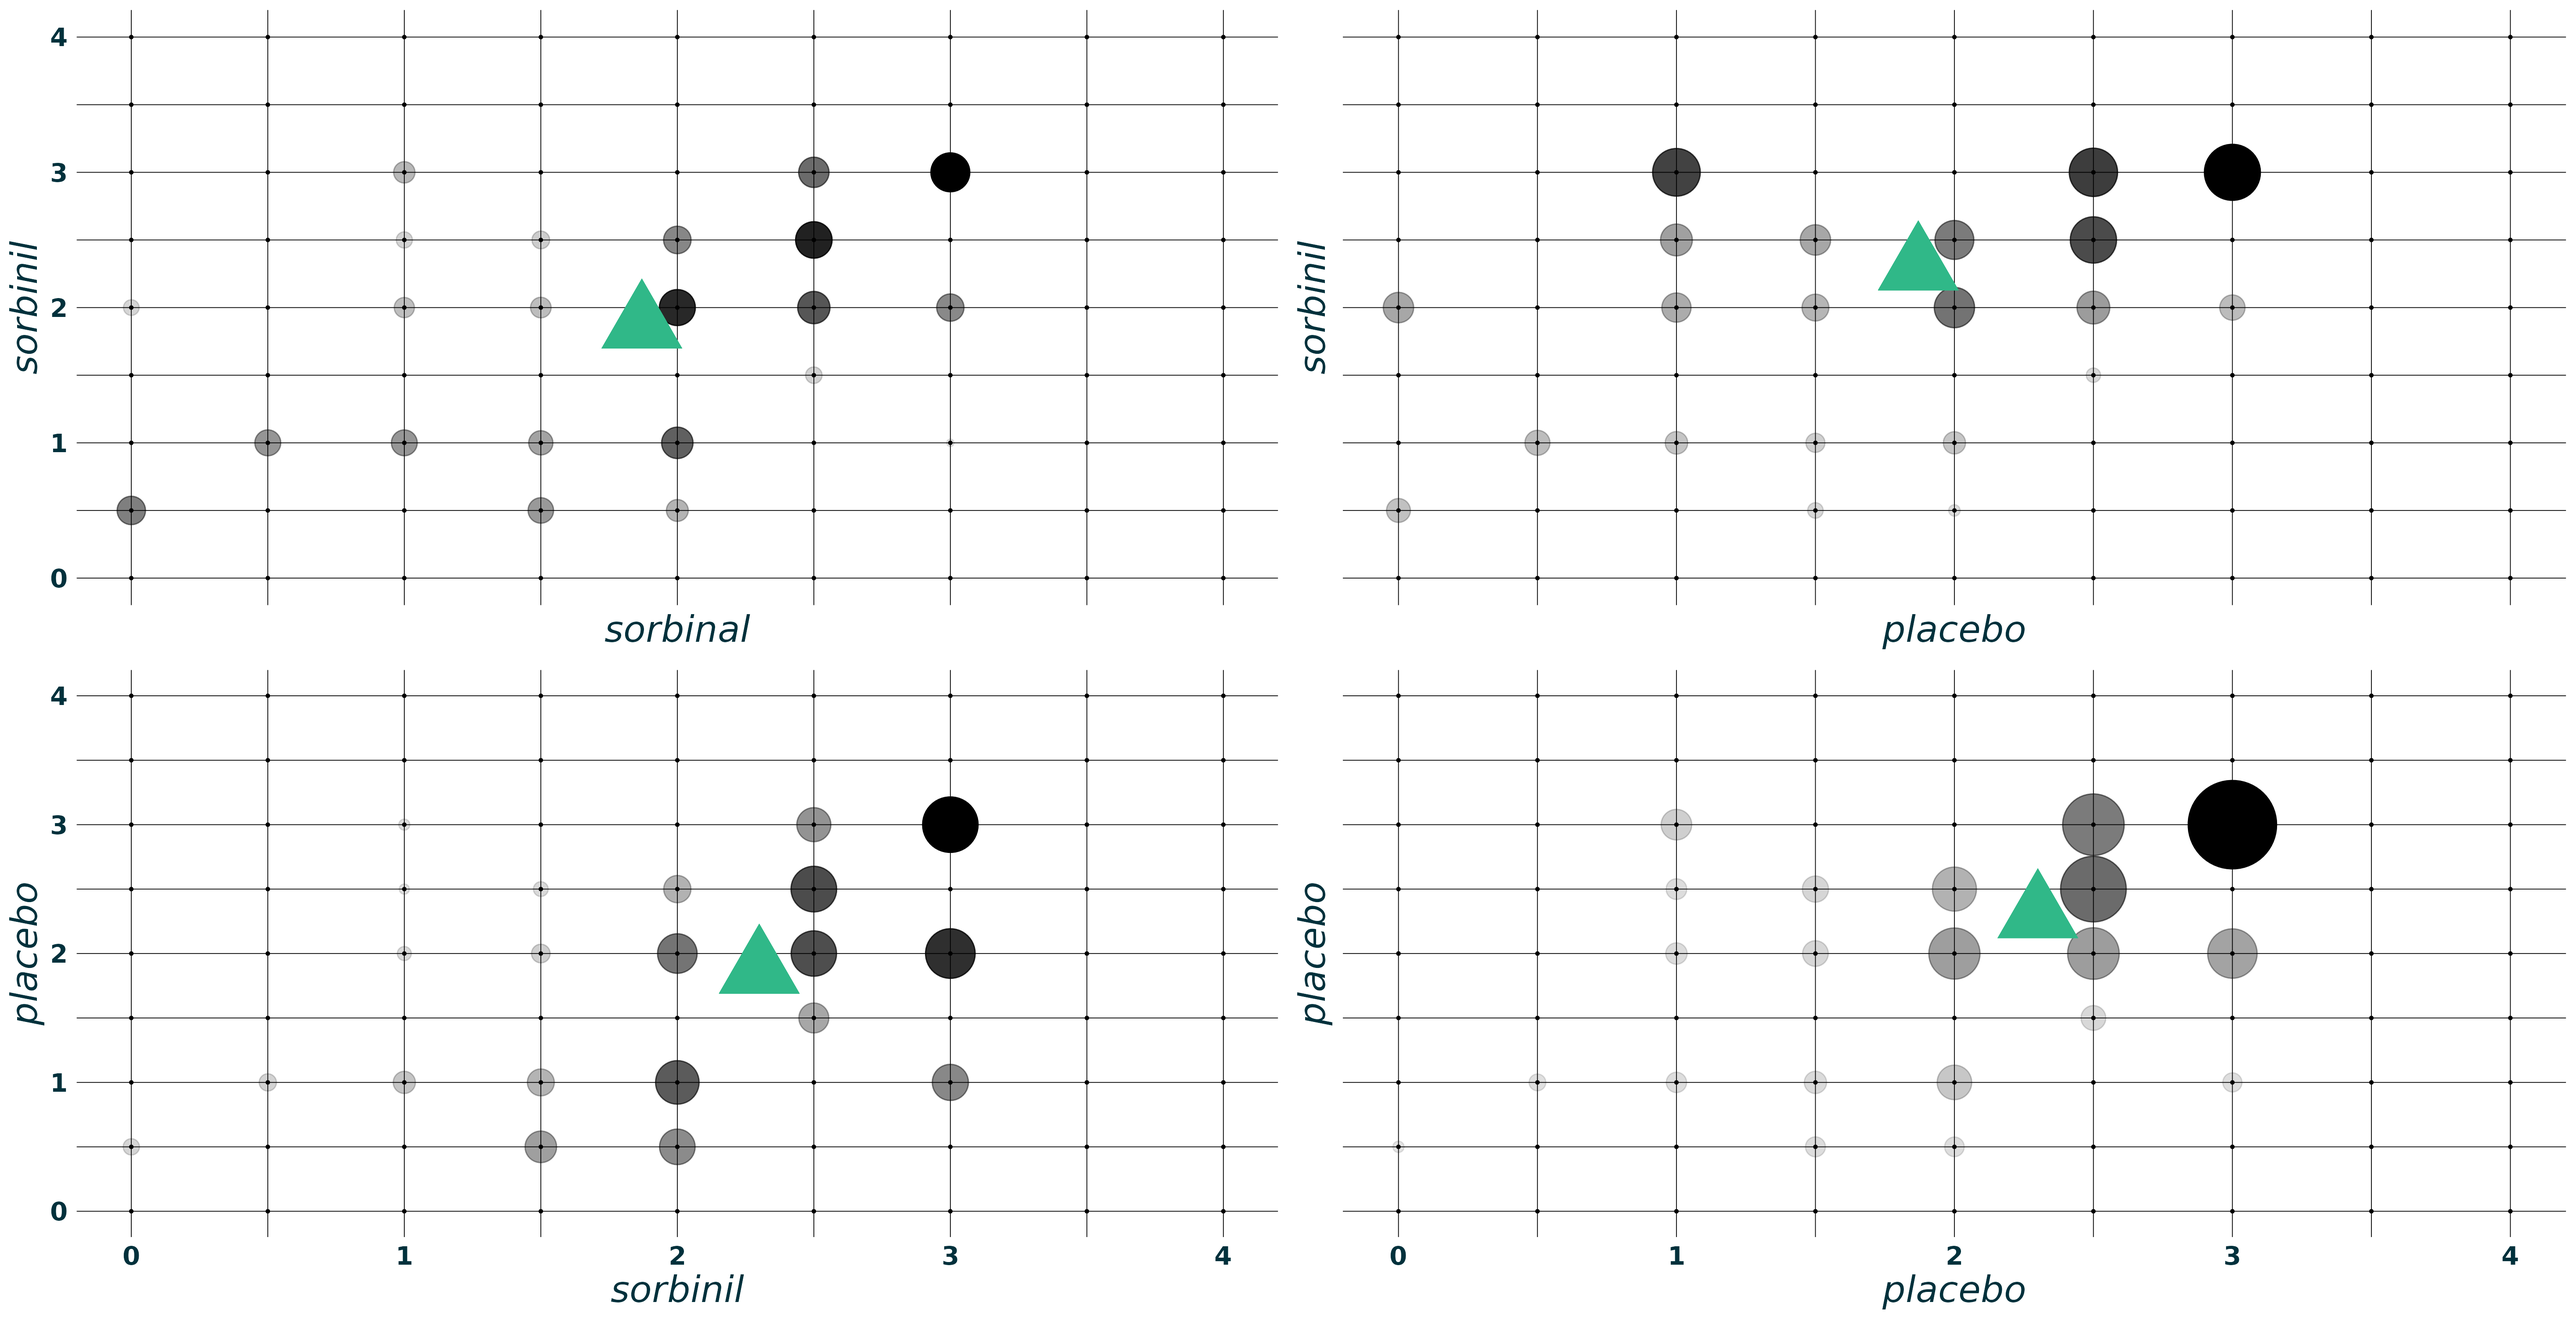
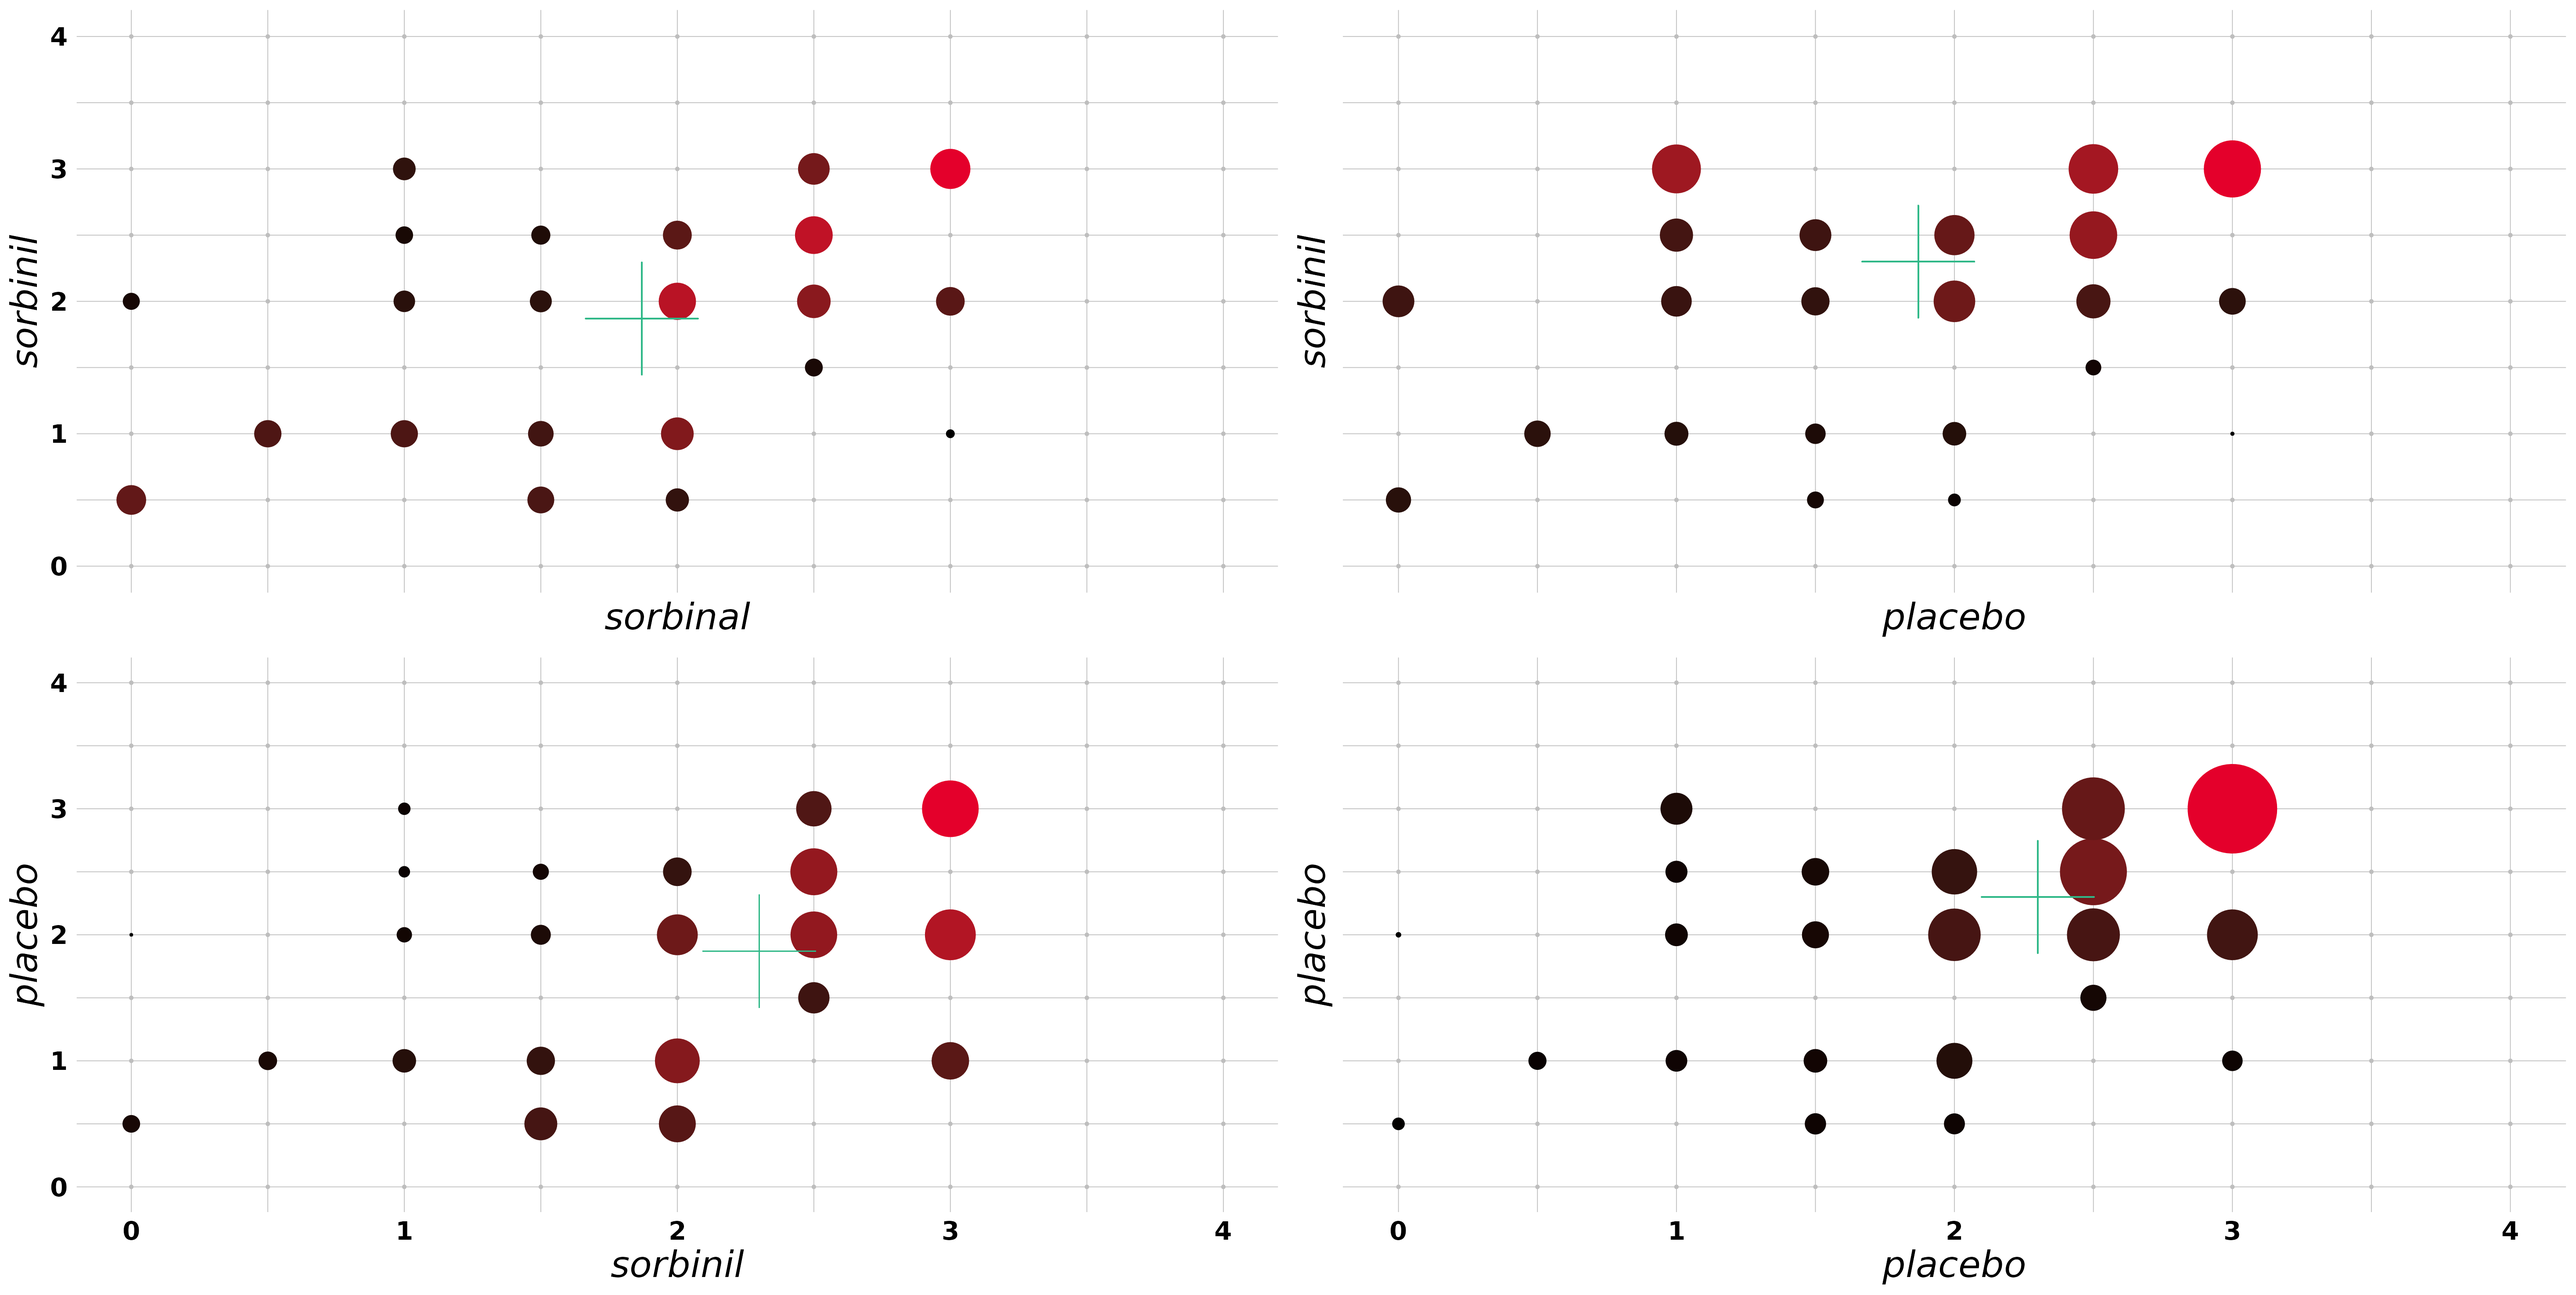
WIP: adding butterfly

diff --git a/presentation.tex b/presentation.tex
@@ -26,6 +26,8 @@
 \newcommand{\linkcolor}{Data61 green}
 \newcommand{\urlcolor}{Data61 dark mint}
 \newcommand{\citecolor}{Data61 light forest}
+\newcommand{\vermillion}{Data61 vermillion}
+
 
 \hypersetup{
   urlcolor    = \urlcolor,        %Colour for external hyperlinks
@@ -553,7 +555,10 @@ model = fit_vspglm(["death~age","burns~age"],tbl,{'logit','id'})
 	\begin{figure}
 		\centering
 		\includegraphics[width= \linewidth]{figures/sorbinil_pmfs.png}
-		\caption{{\small Reweighted Sorbinal pmf at group medians (left eye = $y$ axis, right eye = $x$ axis)}}
+		\caption{
+                    {\small Reweighted Sorbinal pmf at group medians (left eye = $y$ axis, right eye = $x$ axis).
+                Medians are indicated by the \textcolor{\linkcolor}{green} cross. 
+                Areas with greater probability mass colored in \textcolor{\vermillion}{vermillion}.}}
 	\end{figure}
 \end{frame}
 
